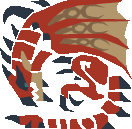
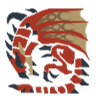
Added monster hunter board

diff --git a/public/views/customization.html b/public/views/customization.html
@@ -73,7 +73,7 @@
                 <div class="w3-col l3 s6">
                     <div class="w3-container">
                         <div class="w3-display-container">
-                            <img id="boardImage3" src="imgs/waluigi.png" class="w3-grayscale-max" style="width:100%">
+                            <img id="boardImage3" src="imgs/board3.png" class="w3-grayscale-max" style="width:100%">
                             <span id="boardLockTag3" class="w3-tag w3-display-topleft">Locked</span>
                             <span id="boardSelectedTag3" class="w3-tag w3-green w3-display-topright" style="display: none">Selected</span>
                             <div class="w3-display-middle w3-display-hover">
